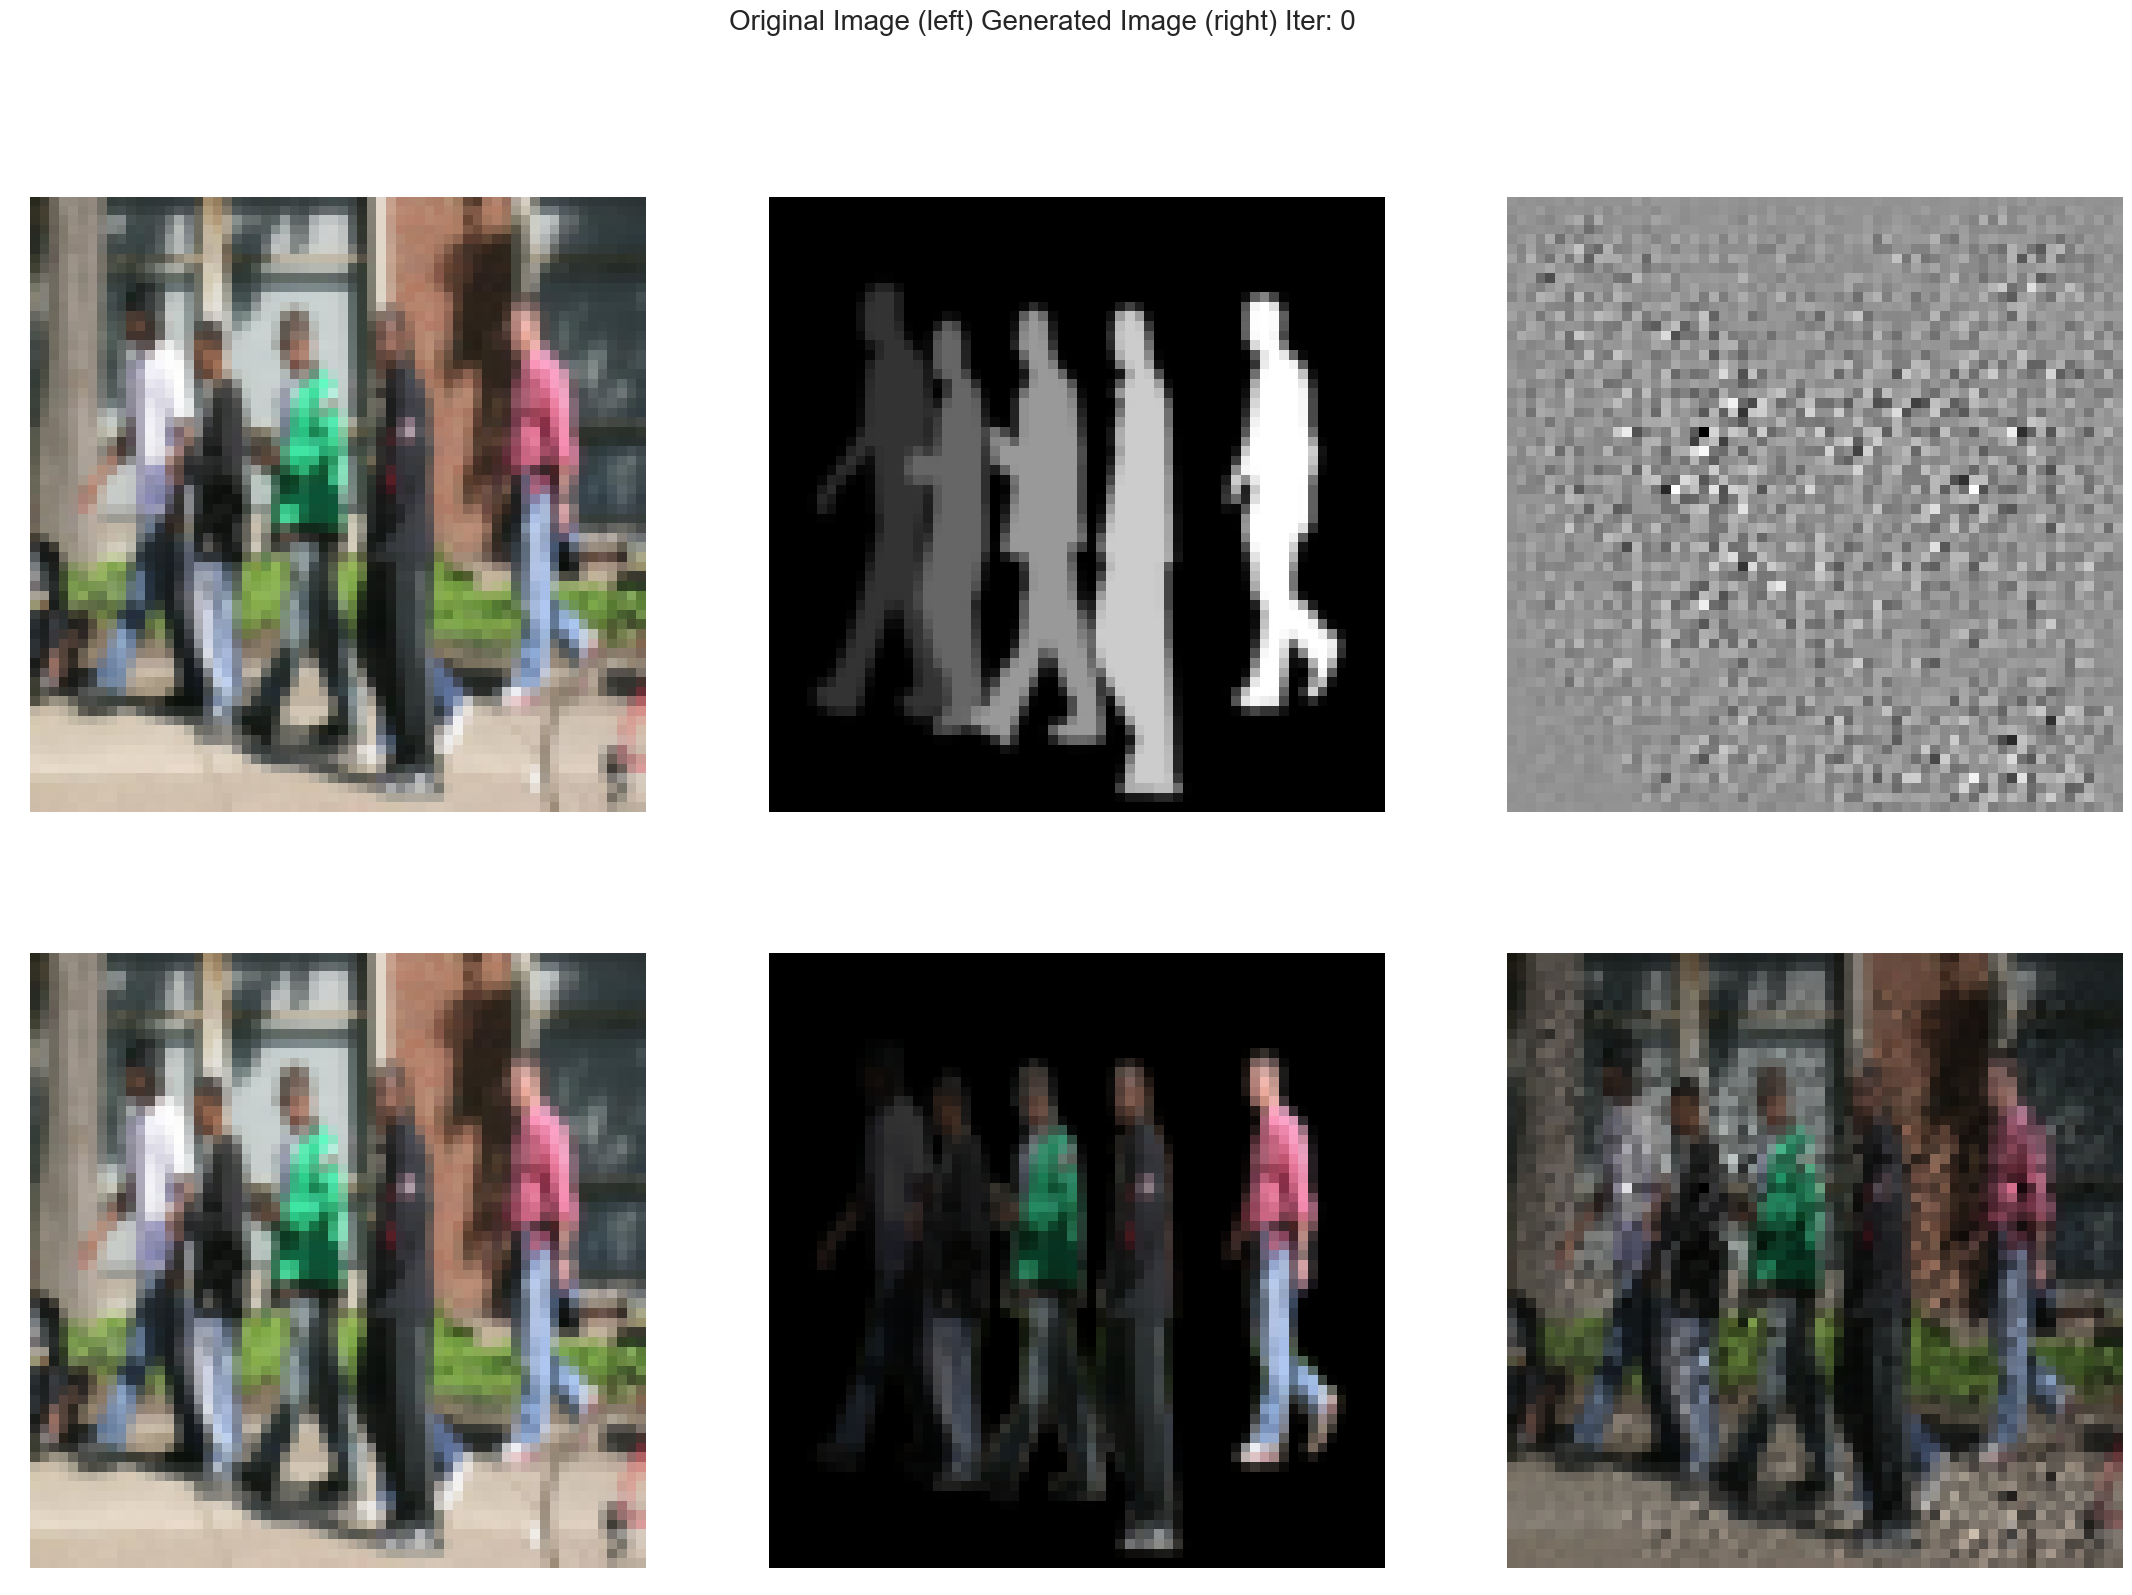
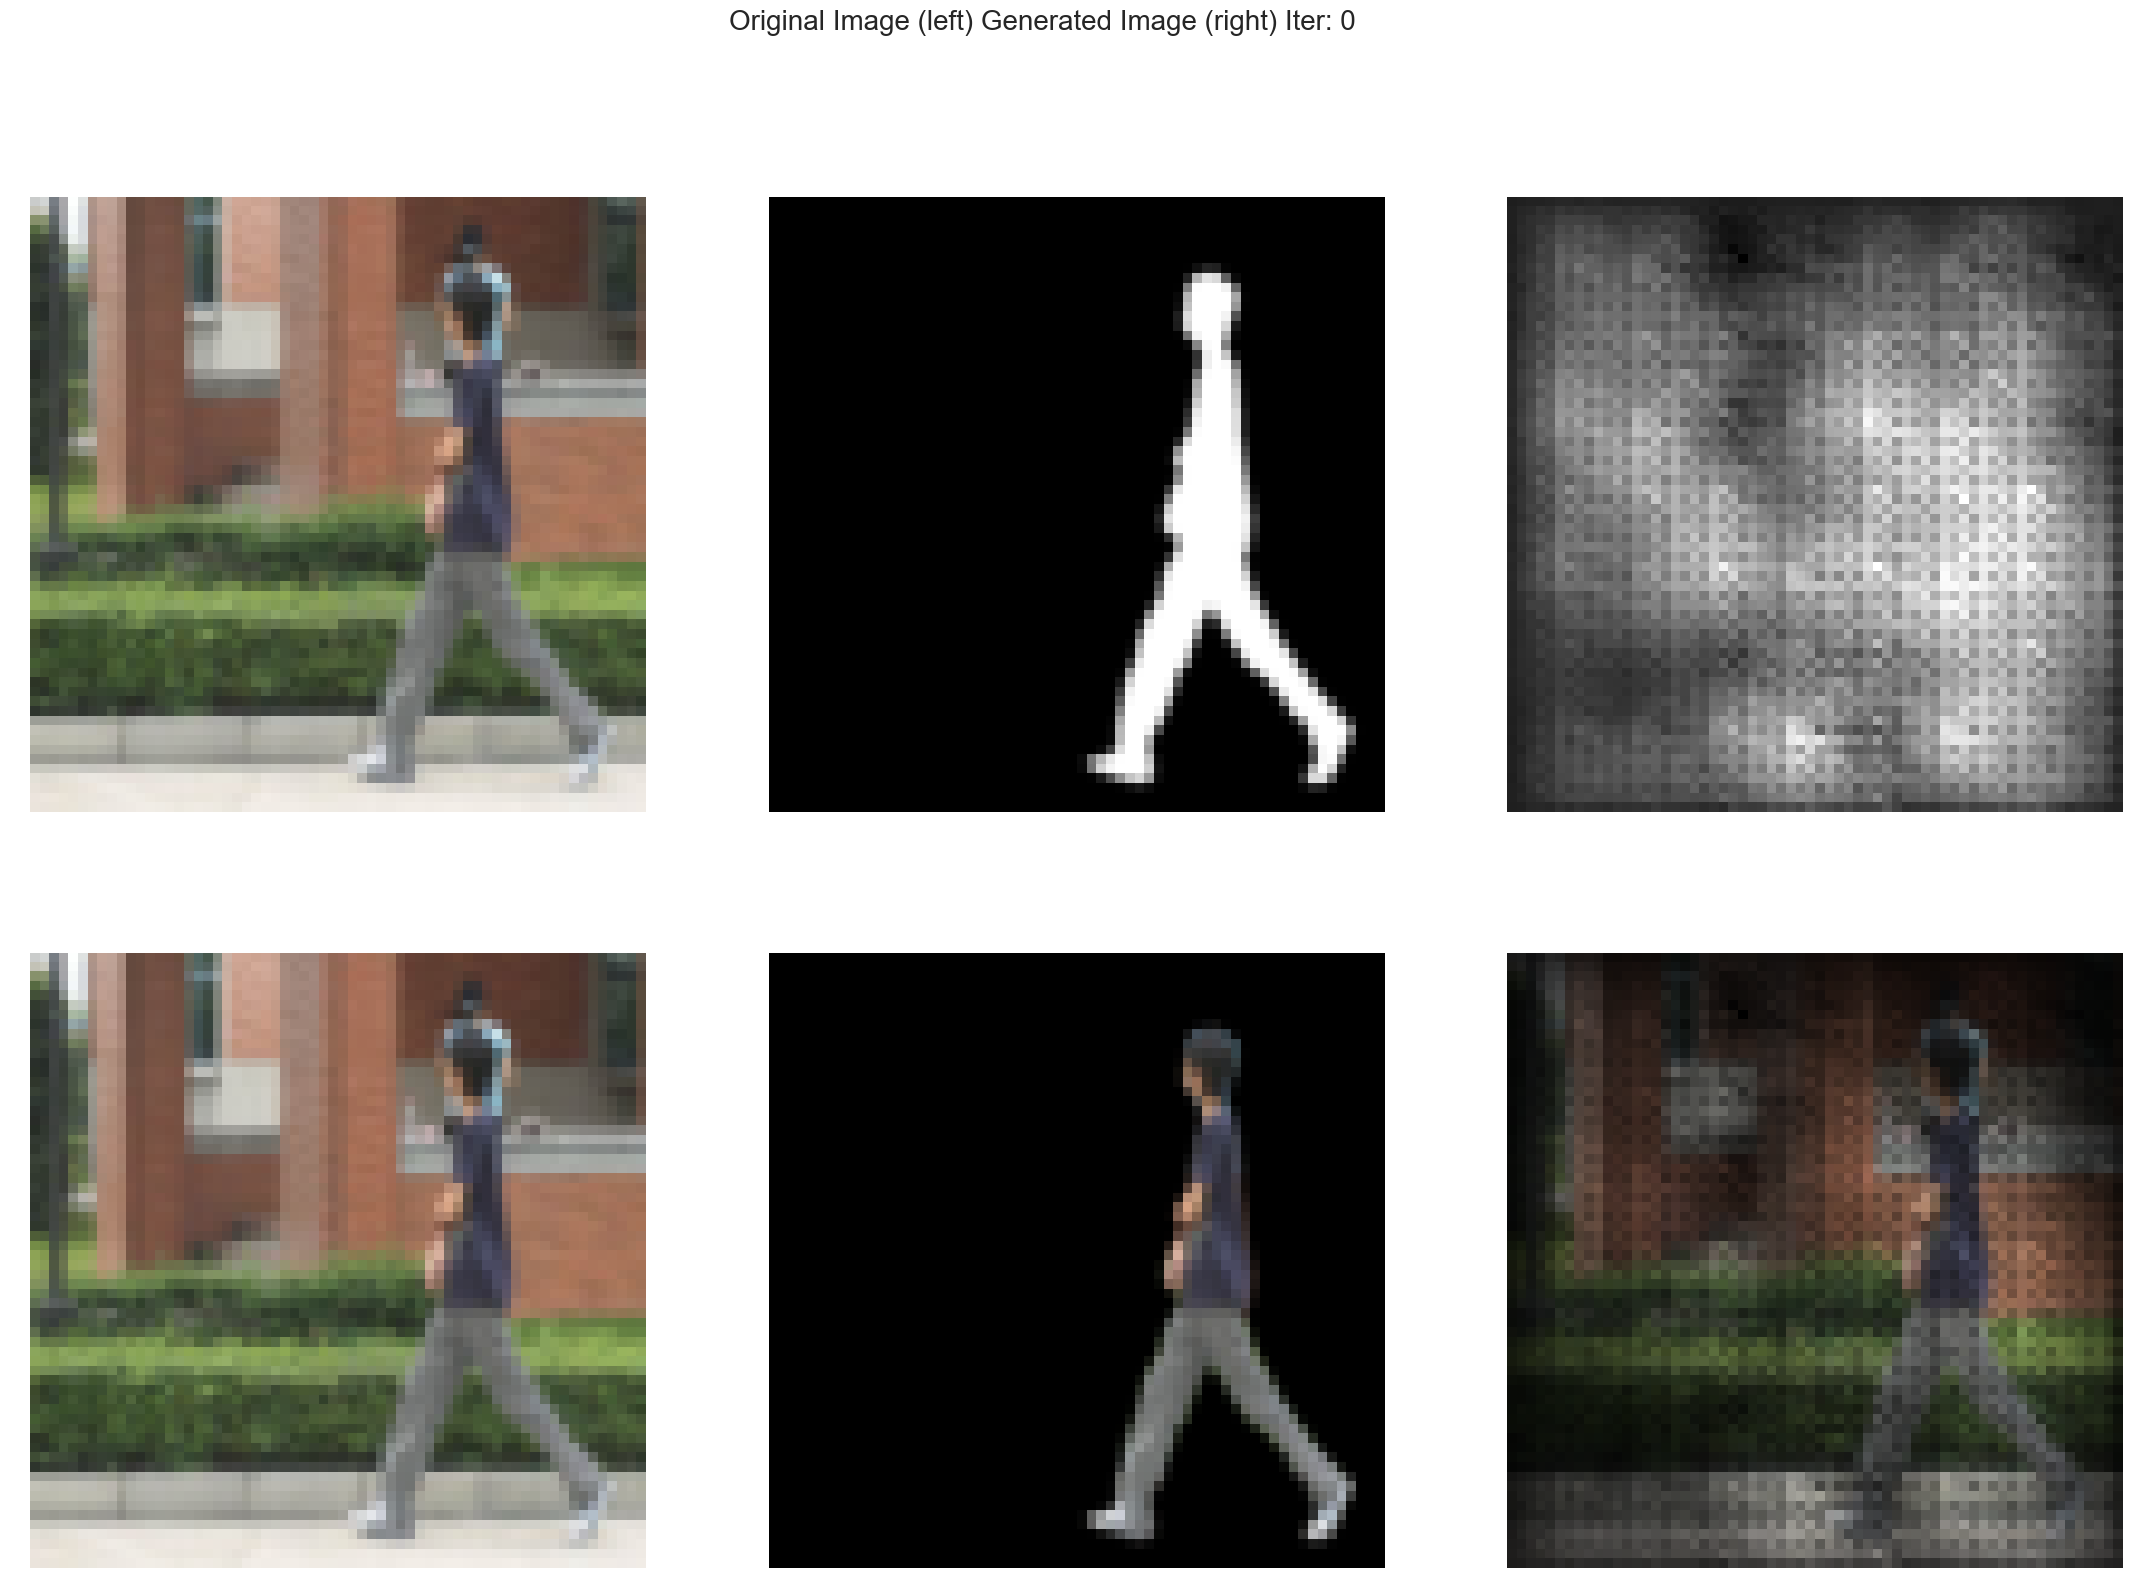
s

diff --git a/NeuralNetwork/Sparse_Auto/a.py b/NeuralNetwork/Sparse_Auto/a.py
@@ -266,12 +266,12 @@ class Sparse_Filter_Layer():
 
     def feedforward(self,input):
         self.sparse_layer  = tf.matmul(input,self.w)
-        # second = tf.nn.elu(self.sparse_layer )
-        second = self.soft_abs(self.sparse_layer )
+        second = tf.nn.sigmoid(self.sparse_layer )
+        # second = self.soft_abs(self.sparse_layer )
         third  = tf.divide(second,tf.sqrt(tf.reduce_sum(second**2,axis=0)+self.epsilon))
         four = tf.divide(third,tf.sqrt(tf.reduce_sum(third**2,axis=1)[:,tf.newaxis] +self.epsilon))
         self.cost_update = tf.reduce_mean(four)
-        return self.sparse_layer  ,self.cost_update
+        return self.sparse_layer ,self.cost_update
 
 # ================= LAYER CLASSES =================
 
@@ -301,10 +301,10 @@ for file_index in range(len(image_list)):
 train_images = train_images/255.0
 train_labels = train_labels/255.0
 
-train_batch = train_images[:120]
-train_label = train_labels[:120]
-test_batch = train_images[120:]
-test_label = train_labels[120:]
+train_batch = train_images[:85]
+train_label = train_labels[:85]
+test_batch = train_images[85:]
+test_label = train_labels[85:]
 
 # print out the data shape
 print(train_batch.shape)
@@ -337,12 +337,12 @@ el4 = CNN(3,4,4)
 reduce_dim = 16*3
 sparse_layer = Sparse_Filter_Layer(8*8*4,1*1*reduce_dim)
 
-dl0 = CNN_Trans(3,8,3)
-dl1 = CNN_Trans(3,8,8)
-fl1 = CNN(3,8,8)
+dl0 = CNN_Trans(3,4,3)
+dl1 = CNN_Trans(3,4,4)
+fl1 = CNN(3,4,4)
 
-dl2 = CNN_Trans(3,8,8)
-fl2 = CNN(3,8,4)
+dl2 = CNN_Trans(3,4,4)
+fl2 = CNN(3,4,4)
 
 dl3 = CNN_Trans(3,4,4)
 fl3 = CNN(3,4,1)
@@ -350,7 +350,7 @@ fl3 = CNN(3,4,1)
 # hyper
 num_epoch = 3001
 learning_rate = 0.0008
-batch_size = 20
+batch_size = 5
 print_size = 500
 
 beta1,beta2,adam_e = 0.9,0.9,1e-8
